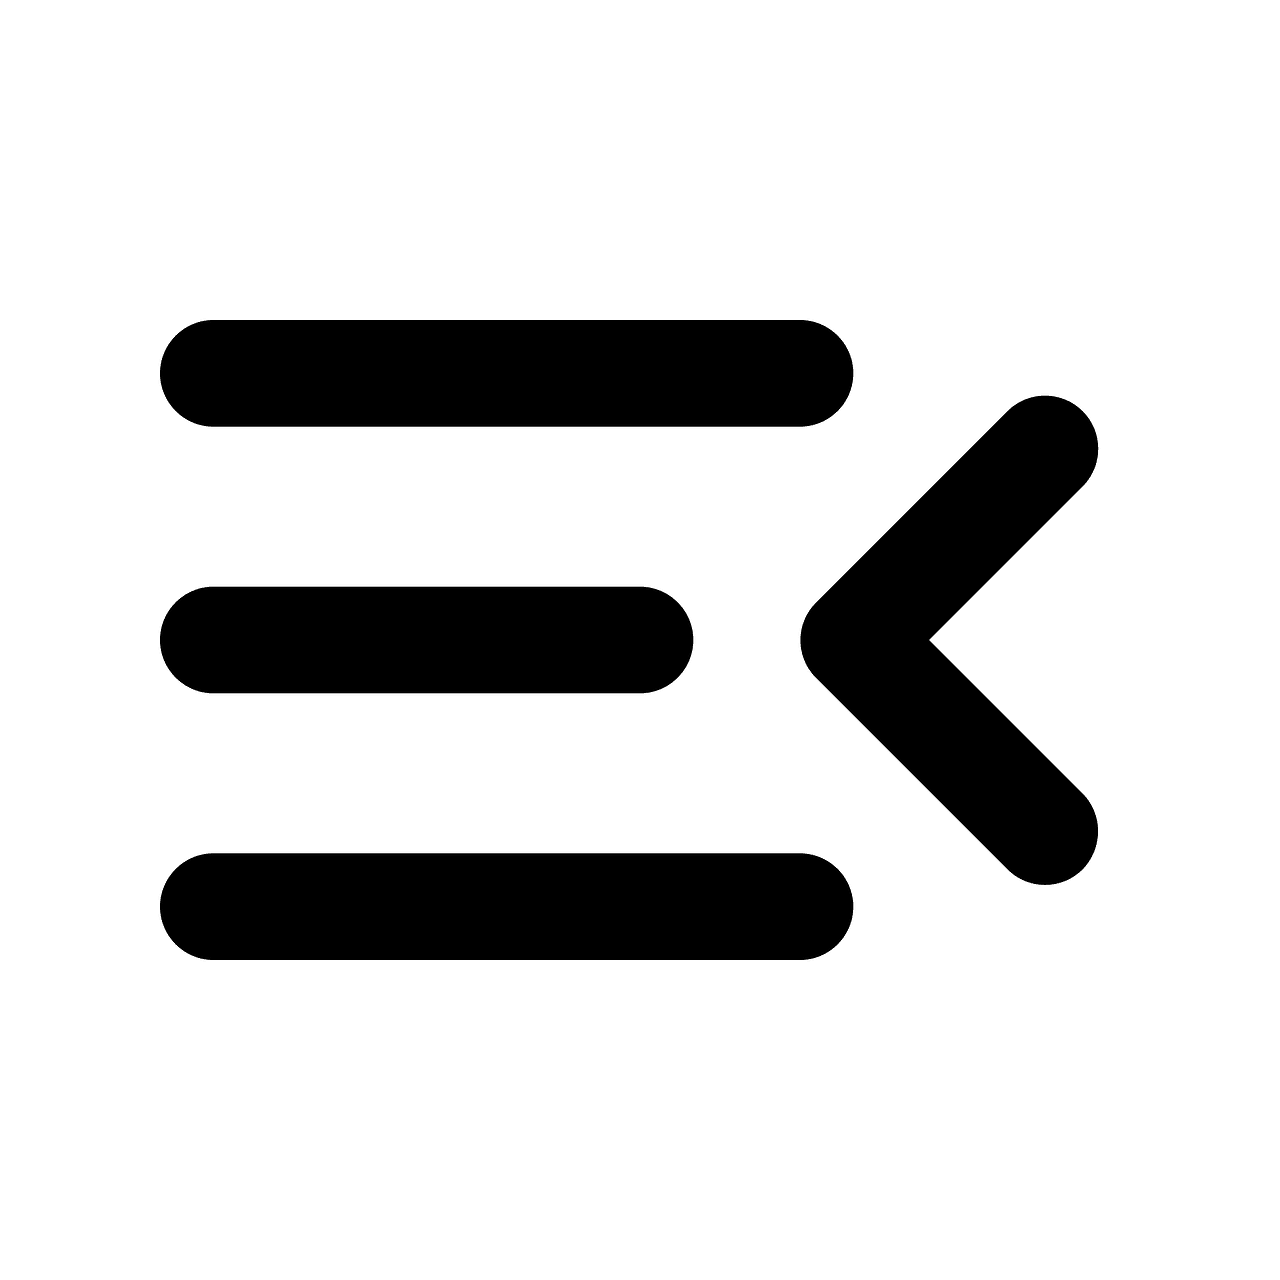
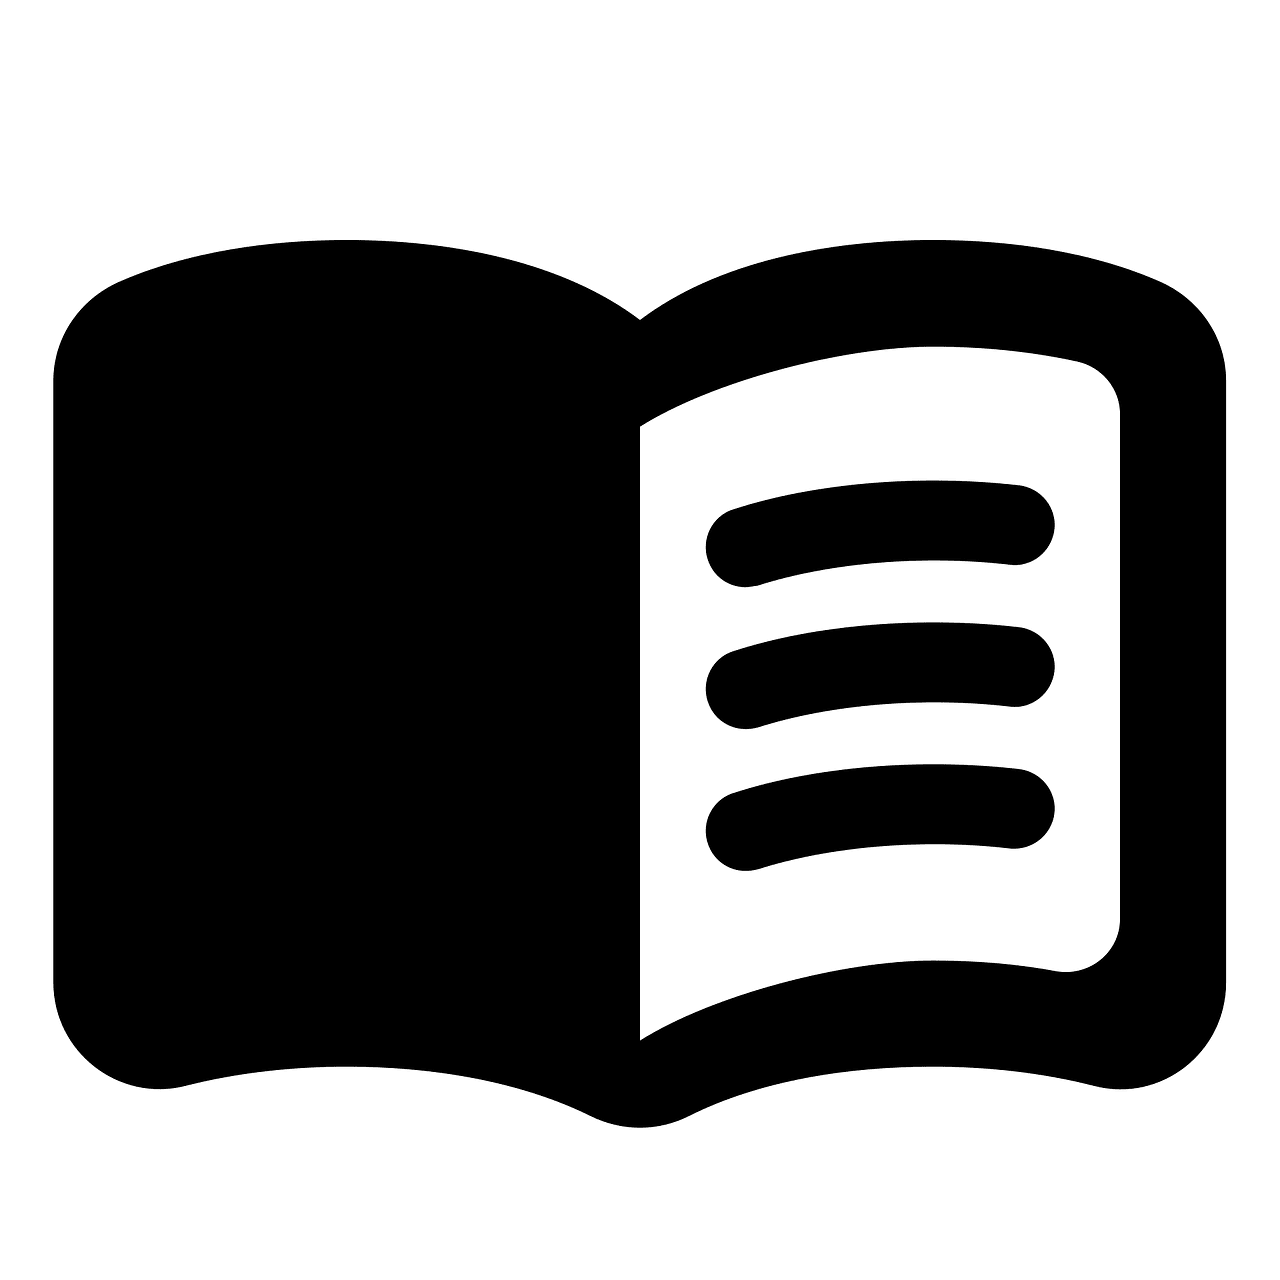
ajustando a barra

diff --git a/Frontend/index.html b/Frontend/index.html
@@ -12,22 +12,10 @@
             <p>UM BOM LIVRO MERECE OUTRA HISTÓRIA. E UM BOM CAFÉ TAMBÉM.</p>
         </div>
 
-        <nav class="navbar">
-            <div class="Brand">
-                <div class="logo">
-                    <span class="Icon"><img src="images/coffee-logo.png" alt="coffee-logo"></span>
-                    <span class="brand-text">Grãos <span class="ampersand">&</span>Livros</span>
-                </div>
-            </div>
-
-        
-            <div class="nav-actions">
-                <button class="action-btn" aria-label="Buscar"><img src="images/pesquisar.png" alt=""></button>
-                <button class="action-btn" aria-label="Favoritos"><img src="images/coração.png" alt=""></button>
-                <button class="action-btn" aria-label="Carrinho"><img src="images/carrinho.png" alt=""></button>
-                <button class="action-btn menu-hamburger" aria-label="Menu"><img src="images/pesquisar.png" alt=""></button>
-            </div>
-        </nav>
+        <div class="menu">
+            <div><img src="images/coffee-logo.png" alt=""></div>
+            <div><img src="images/pesquisar.png" alt=""><img src="images/coração.png" alt=""> <img src="images/carrinho.png" alt=""><img src="images/menu.png" alt=""></div>
+        </div>
     </header>
 </body>
 </html>

diff --git a/Frontend/style.css b/Frontend/style.css
@@ -30,55 +30,12 @@
     flex-direction: column;
 }
 
-.logo {
+
+.menu{
     display: flex;
-    align-items: center;
-    font-size: 1.2rem;
-    font-weight: bold;
-    color: #2b2b2b;
-}
-
-.Icon {
-    margin-right: 8px;
-    transform:scale(0.2)
-}
-
-.ampersand {
-    color: #c08261;
-    font-weight: normal;
-    margin: 0 2px;
-}
-
-.slogan {
-    font-size: 0.6rem;
-    letter-spacing: 3px;
-    color: #707070;
-    margin-top: -2px;
-    font-weight: 600;
-}
-
-.nav-actions {
-    display: flex;
-    gap: 20px;
-    align-items: center;
-}
-
-.action-btn {
-    background: none;
-    cursor: pointer;
-    font-size: 1.2rem;
-    color: #2b2b2b;
-    transition: transform 0.2s ease, color 0.2s ease;
-    transform: scale(0.1);
-}
-
-.action-btn:hover{
-    color: #c08261;
-    transform: scale(1.1);
-}
-
-.menu-hamburguer{
-    font-size: 1.4rem;
-    margin-left: 5px;
-    transform: scale(0.1);
+    justify-content: space-between;
+    padding: 1rem;
+    img{
+        width: 100px;
+    }
 }

diff --git a/Frontend/exemplo.html b/Frontend/exemplo.html
@@ -1,0 +1,25 @@
+<nav class="navbar">
+    <div class="Brand">
+        <div class="logo">
+            <span class="Icon"><img src="images/coffee-logo.png" alt="coffee-logo"></span>
+        </div>
+    </div>
+
+
+    <div class="nav-actions">
+        <button class="action-btn" aria-label="Buscar"><img src="images/pesquisar.png" alt=""></button>
+        <button class="action-btn" aria-label="Favoritos"><img src="images/coração.png" alt=""></button>
+        <button class="action-btn" aria-label="Carrinho"><img src="images/carrinho.png" alt=""></button>
+        <button class="action-btn menu-hamburger" aria-label="Menu"><img src="images/menu.png" alt=""></button>
+    </div>
+</nav>
+
+
+.menu{
+    display: flex;
+    justify-content: space-between;
+    img{
+        width: 100px;
+        height: 100px;
+    }
+}
